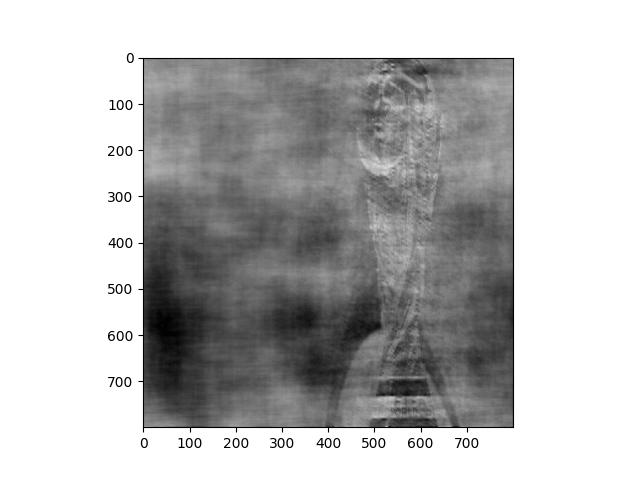
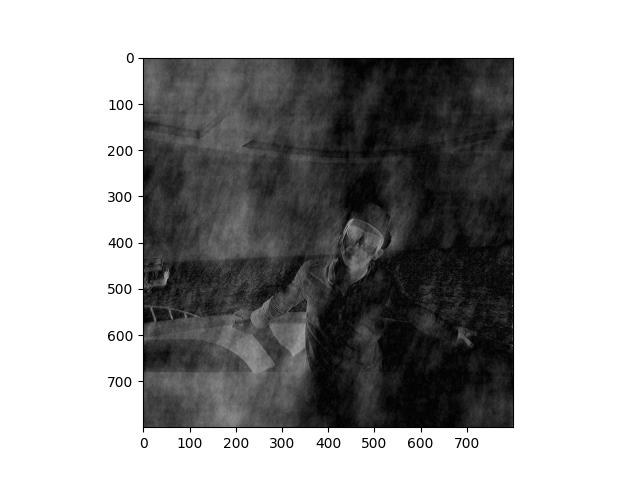
upload one image and add random matrix

diff --git a/app.py b/app.py
@@ -36,17 +36,23 @@ def image():
         if img1 != None:
             imgs_save = img1.filename + '.jpg'
             img1.save(imgs_save)
+            Functions.fourier_1 = Functions.fourier('./image1.jpg')
+            Functions.fourier_1 = Functions.magphase(Functions.fourier_1, 'mag')
+            Functions.visulaize(np.log(Functions.fourier_1),1)
+            Functions.flag_1 = True
         if img2 != None:
             imgs_save2 = img2.filename + '.jpg'
             img2.save(imgs_save2)
-        Functions.fourier_1 = Functions.fourier('./image1.jpg')
-        Functions.fourier_2 = Functions.fourier('./image2.jpg')
-        # print(Functions.fourier_1.shape)
-        Functions.fourier_1 = Functions.magphase(Functions.fourier_1, 'mag')
-        Functions.fourier_2 = Functions.magphase(Functions.fourier_2, 'phase')
-        Functions.visulaize(np.log(Functions.fourier_1),1)
-        Functions.visulaize(Functions.fourier_2,2)
-        re_image = Functions.re_fourier(Functions.fourier_1,Functions.fourier_2)
+            Functions.fourier_2 = Functions.fourier('./image2.jpg')
+            Functions.fourier_2 = Functions.magphase(Functions.fourier_2, 'phase')
+            Functions.visulaize(Functions.fourier_2,2)
+            Functions.flag_2 = True
+        if Functions.flag_1:
+            re_image = Functions.re_fourier(Functions.fourier_1,Functions.random_mat)
+        if Functions.flag_2:
+            re_image = Functions.re_fourier(Functions.random_mat,Functions.fourier_2)
+        if Functions.flag_1 and Functions.flag_2:
+            re_image = Functions.re_fourier(Functions.fourier_1,Functions.fourier_2)
         Functions.visulaize(np.abs(re_image),3)
         return render_template('main.html')
     else:

diff --git a/functions.py b/functions.py
@@ -6,6 +6,9 @@ import sys
 class Functions():
     fourier_1 = []
     fourier_2 = []
+    flag_1 = False
+    flag_2 = False
+    random_mat = np.random.randint(0,1000,size=(800,800))
     def fourier(img):
         matrix = cv.imread(img)
         matrix = cv.cvtColor(matrix, cv.COLOR_BGR2GRAY)
